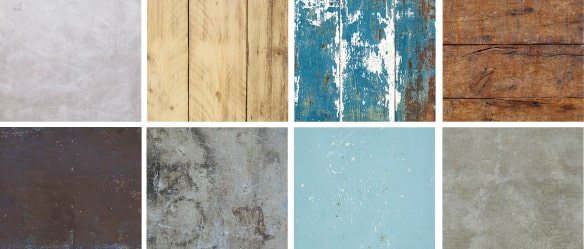
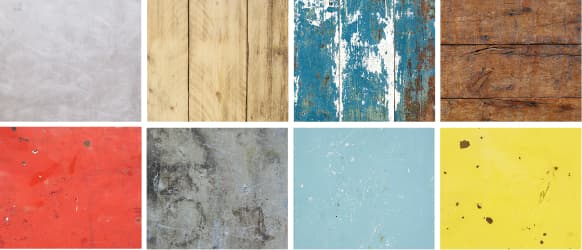
Added in website on contact page, changed collage shown on home page and also changed how home image shows on mobile

diff --git a/src/screens/ContactScreen.js b/src/screens/ContactScreen.js
@@ -4,6 +4,7 @@ import logo from '../public/logoGrey.svg';
 import phone from '../public/phoneBlack.svg';
 import mail from '../public/mailBlack.svg';
 import location from '../public/locationBlack.svg';
+import camera from '../public/camera.svg';
 
 import Map from '../components/Map';
 
@@ -46,20 +47,26 @@ const ContactScreen = () => {
 									<p>simon@simonsmithphotography.com</p>
 								</a>
 							</motion.div>
+							<motion.div variants={fade} className="contactscreen__website">
+								<a href="https://www.simonsmithphotography.co.uk">
+									<img src={camera} alt="" />
+									<p>www.simonsmithphotography.co.uk</p>
+								</a>
+							</motion.div>
 							<motion.div variants={fade} className="contactscreen__location">
-								<img src={location} alt="" />
-								<div className="footer__address">
-									<a
-										target="_blank"
-										href="https://www.google.com/maps/place/Simon+Smith+Photography/@51.5048292,-0.2584012,17z/data=!3m1!4b1!4m5!3m4!1s0x48760e23278e6801:0xd69a7f094e189ec9!8m2!3d51.5048259!4d-0.2562072"
-									>
+								<a
+									target="_blank"
+									href="https://www.google.com/maps/place/Simon+Smith+Photography/@51.5048292,-0.2584012,17z/data=!3m1!4b1!4m5!3m4!1s0x48760e23278e6801:0xd69a7f094e189ec9!8m2!3d51.5048259!4d-0.2562072"
+								>
+									<img src={location} alt="" />
+									<div className="footer__address">
 										<p className="first-line">6 Sun Studios</p>
 										<p>30 Warple Way</p>
 										<p>Acton</p>
 										<p>London</p>
 										<p>W3 0RX</p>
-									</a>
-								</div>
+									</div>
+								</a>
 							</motion.div>
 						</motion.div>
 						<motion.div variants={fade} className="contactscreen__map">

diff --git a/src/components/Footer.js b/src/components/Footer.js
@@ -38,19 +38,19 @@ const Footer = () => {
 							</a>
 						</div>
 						<div className="footer__location">
-							<img src={location} alt="" />
-							<div className="footer__address">
-								<a
-									target="_blank"
-									href="https://www.google.com/maps/place/Simon+Smith+Photography/@51.5048292,-0.2584012,17z/data=!3m1!4b1!4m5!3m4!1s0x48760e23278e6801:0xd69a7f094e189ec9!8m2!3d51.5048259!4d-0.2562072"
-								>
+							<a
+								target="_blank"
+								href="https://www.google.com/maps/place/Simon+Smith+Photography/@51.5048292,-0.2584012,17z/data=!3m1!4b1!4m5!3m4!1s0x48760e23278e6801:0xd69a7f094e189ec9!8m2!3d51.5048259!4d-0.2562072"
+							>
+								<img src={location} alt="" />
+								<div className="footer__address">
 									<p className="first-line">6 Sun Studios</p>
 									<p>30 Warple Way</p>
 									<p>Acton</p>
 									<p>London</p>
 									<p>W3 0RX</p>
-								</a>
-							</div>
+								</div>
+							</a>
 						</div>
 					</div>
 				</div>

diff --git a/src/styles/screens/_homescreen.scss b/src/styles/screens/_homescreen.scss
@@ -50,8 +50,10 @@
 		margin-bottom: rem(150);
 		&image {
 			overflow: hidden;
+
 			img {
 				width: 100%;
+				object-fit: cover;
 			}
 		}
 		&-body {
@@ -289,7 +291,7 @@
 					padding: 0;
 
 					max-height: rem(650);
-					object-fit: cover;
+					object-fit: contain;
 				}
 			}
 
@@ -388,7 +390,7 @@
 					// display: none;
 
 					max-height: rem(250);
-					object-fit: cover;
+					object-fit: contain;
 				}
 			}
 

diff --git a/src/screens/HomeScreen.js b/src/screens/HomeScreen.js
@@ -106,7 +106,7 @@ const HomeScreen = () => {
 						Simon is a food and drink photographer with over 20 years’
 						experience.
 					</p>
-					<p>His backgrounds feature regularly in his shoots.</p>
+					<p>The backgrounds feature regularly in his shoots.</p>
 				</div>
 				<img src={soup} alt="soup" />
 				<img src={cheesecake} alt="cheesecake" />

diff --git a/src/components/Map.js b/src/components/Map.js
@@ -15,7 +15,7 @@ const Map = () => {
 			container: 'mapContainer',
 			style: 'mapbox://styles/mapbox/streets-v11',
 			center: lngLat,
-			zoom: 13,
+			zoom: 15.2,
 		});
 		const nav = new mapboxgl.NavigationControl();
 		map.addControl(nav, 'top-right');

diff --git a/src/styles/screens/_contactscreen.scss b/src/styles/screens/_contactscreen.scss
@@ -73,8 +73,19 @@
 		}
 	}
 
+	&__website {
+		padding-bottom: rem(40);
+
+		a {
+			display: flex;
+			align-items: center;
+		}
+	}
+
 	&__location {
-		display: flex;
+		a {
+			display: flex;
+		}
 
 		p {
 			&:not(:last-child) {

diff --git a/src/styles/components/_footer.scss b/src/styles/components/_footer.scss
@@ -104,7 +104,9 @@
 			}
 
 			&__location {
-				display: flex;
+				a {
+					display: flex;
+				}
 
 				p {
 					&:not(:last-child) {
